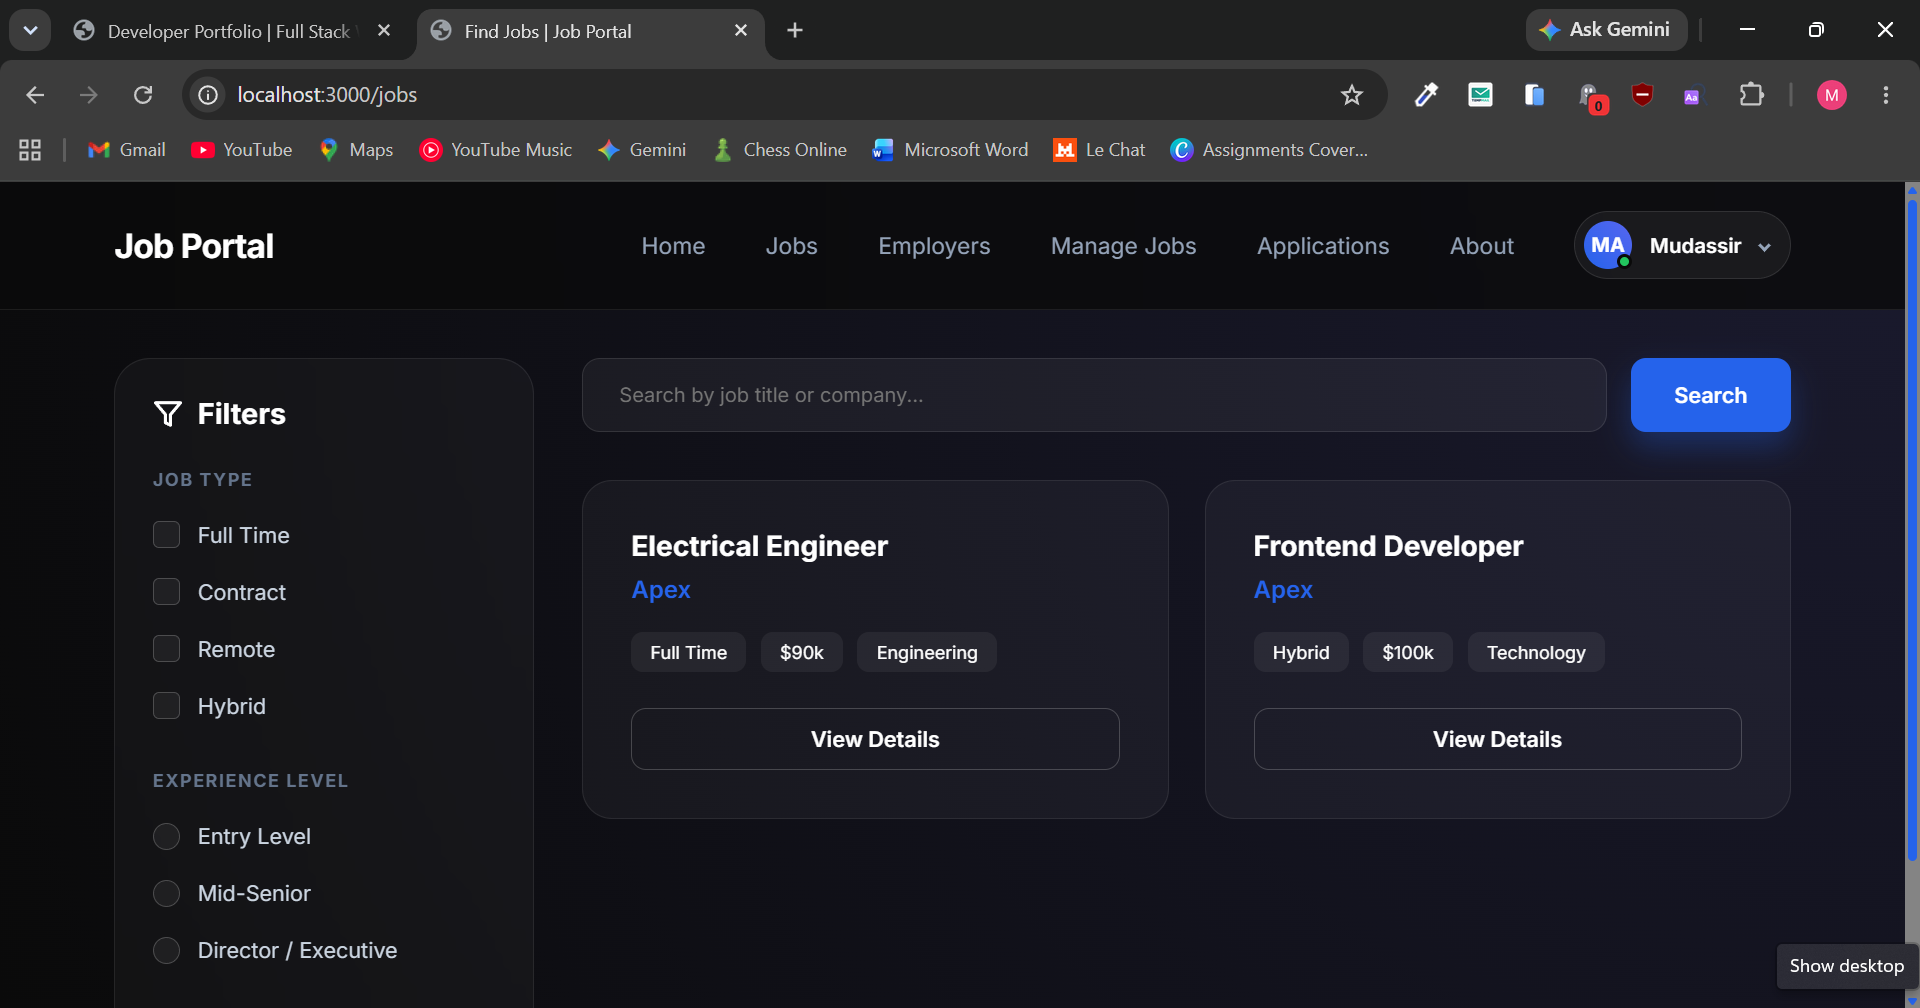
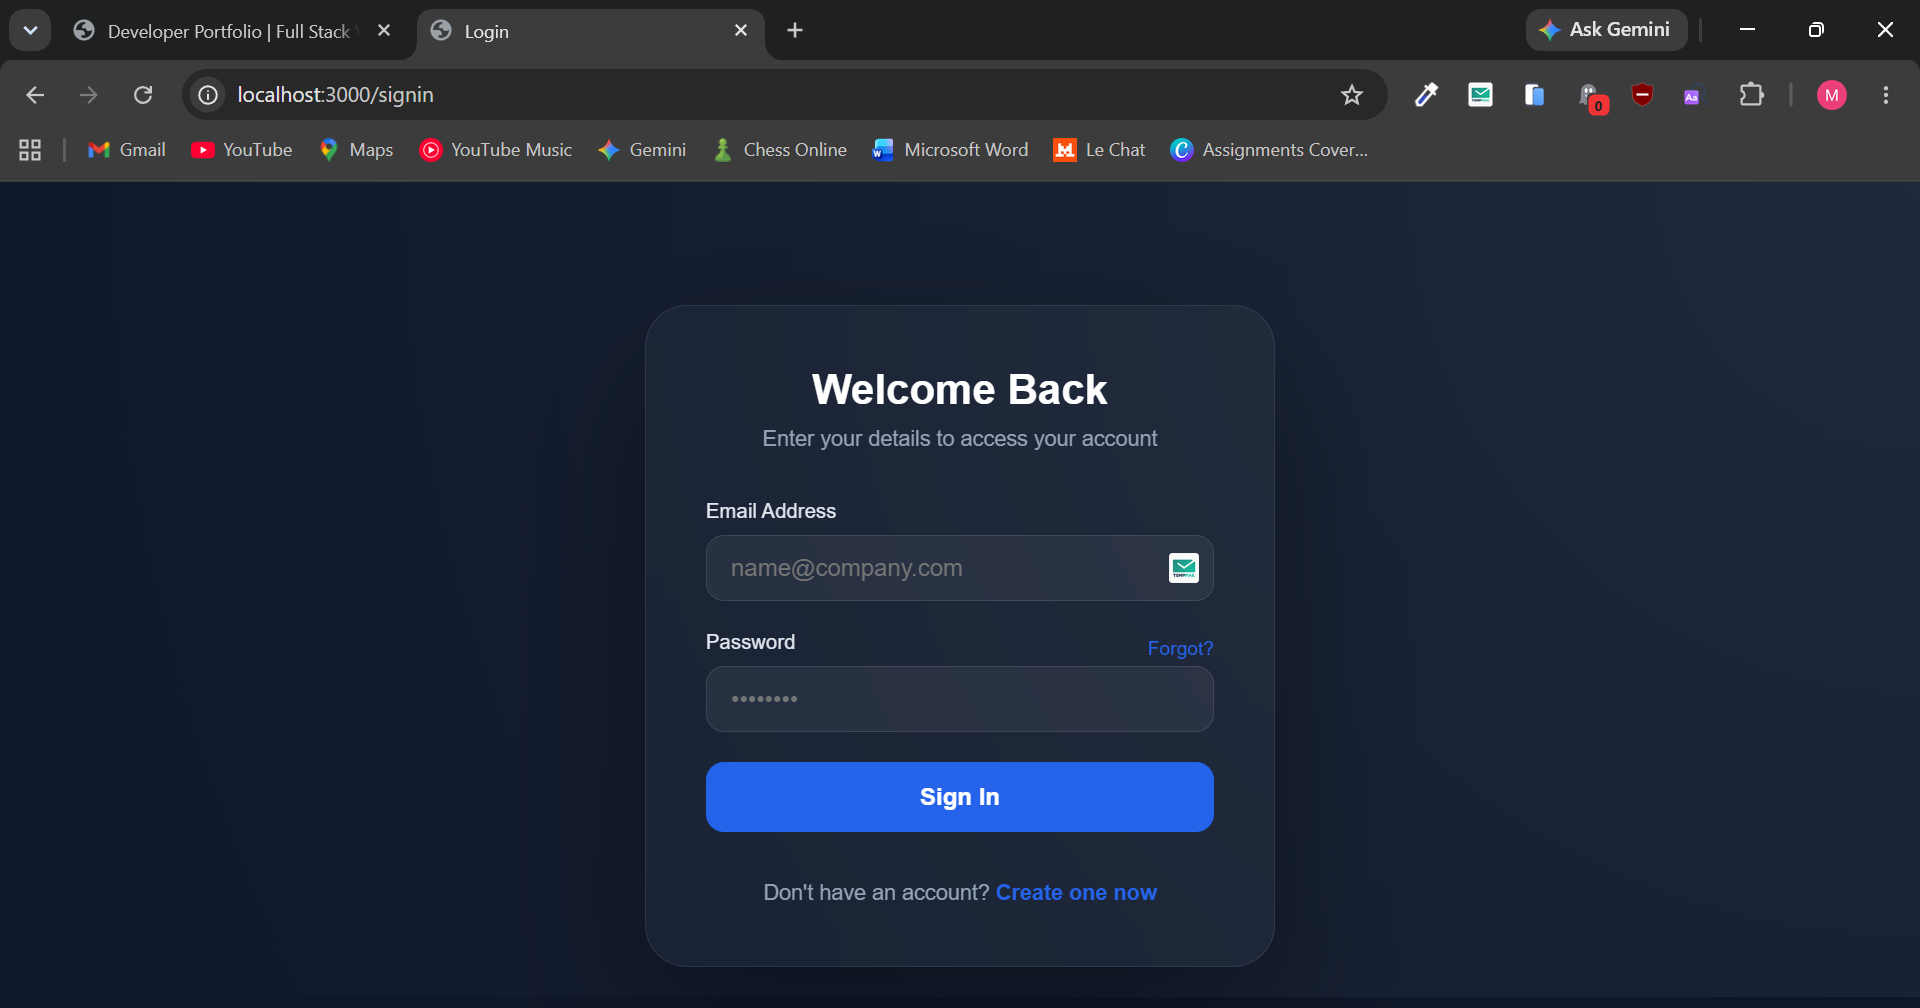
Updated

diff --git a/public/script.js b/public/script.js
@@ -4,11 +4,7 @@ const projectsData = [
     title: "E-Commerce Platform",
     description:
       "Full-stack online store with payment integration, inventory management, and admin dashboard.",
-    images: [
-      "projects/ecommerce.jpg",
-      "projects/jobportal-1.png",
-      "projects/jobportal-2.png",
-    ],
+    images: ["projects/ecommerce.jpg"],
     tags: ["React", "Node.js", "PostgreSQL", "Stripe"],
     github: "#",
     demo: "#",
@@ -24,11 +20,7 @@ const projectsData = [
     title: "Task Management App",
     description:
       "Collaborative project management tool with real-time updates and team collaboration features.",
-    images: [
-      "projects/taskmanager.jpg",
-      "projects/jobportal-1.png",
-      "projects/jobportal-2.png",
-    ],
+    images: ["projects/taskmanager.jpg"],
     tags: ["Next.js", "TypeScript", "Supabase", "Tailwind"],
     github: "#",
     demo: "#",
@@ -44,11 +36,7 @@ const projectsData = [
     title: "Social Media API",
     description:
       "RESTful API service with authentication, rate limiting, and comprehensive documentation.",
-    images: [
-      "projects/api.jpg",
-      "projects/jobportal-1.png",
-      "projects/jobportal-2.png",
-    ],
+    images: ["projects/api.jpg"],
     tags: ["Node.js", "Express", "JWT", "Redis"],
     github: "#",
     demo: "#",
@@ -65,9 +53,15 @@ const projectsData = [
     description:
       "A full-stack job portal web application that connects job seekers and employers for job posting, searching, and application management.",
     images: [
-      "projects/jobportal.png",
       "projects/jobportal-1.png",
       "projects/jobportal-2.png",
+      "projects/jobportal-3.png",
+      "projects/jobportal-4.png",
+      "projects/jobportal-5.png",
+      "projects/jobportal-6.png",
+      "projects/jobportal-7.png",
+      "projects/jobportal-8.png",
+      "projects/jobportal-9.png",
     ],
     tags: ["Node.js", "Express", "Javascript", "MongoDB"],
     github: "#",

diff --git a/public/index.html b/public/index.html
@@ -609,7 +609,7 @@
 
           <div class="project-card scroll-reveal" data-project="3">
             <div class="project-image">
-              <img src="projects/jobportal.png" alt="Job Portal" />
+              <img src="projects/jobportal-2.png" alt="Job Portal" />
               <div class="project-overlay"></div>
             </div>
             <div class="project-content">

diff --git a/public/styles.css b/public/styles.css
@@ -1448,7 +1448,7 @@ body::-webkit-scrollbar-thumb:hover {
   }
 
   .modal-close {
-    background-color: white; /* Contrast protection on smaller layouts */
+    background-color: #1e232a; /* Contrast protection on smaller layouts */
     box-shadow: 0 4px 12px rgba(0, 0, 0, 0.15);
   }
 }